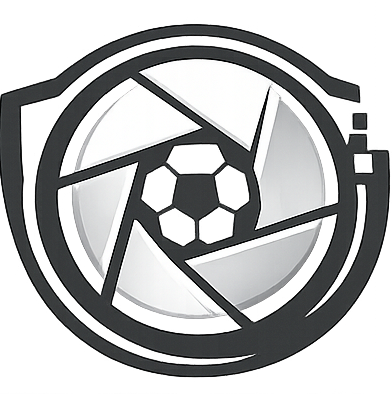
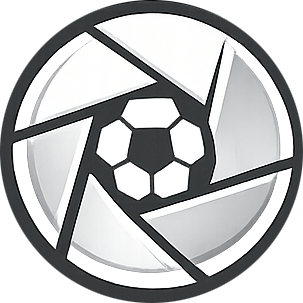
Update README and About component: add links to website and community forum

diff --git a/frontend/src/features/settings/components/About.jsx b/frontend/src/features/settings/components/About.jsx
@@ -120,6 +120,24 @@ export default function About() {
 							<Button
 								variant="outline"
 								className="justify-start"
+								onClick={() => openLink('https://reco-project.org')}
+							>
+								<ExternalLink className="h-4 w-4 mr-2" />
+								Website
+								<ExternalLink className="h-3 w-3 ml-auto" />
+							</Button>
+							<Button
+								variant="outline"
+								className="justify-start"
+								onClick={() => openLink('https://forum.reco-project.org')}
+							>
+								<ExternalLink className="h-4 w-4 mr-2" />
+								Community Forum
+								<ExternalLink className="h-3 w-3 ml-auto" />
+							</Button>
+							<Button
+								variant="outline"
+								className="justify-start"
 								onClick={() => openLink('https://github.com/reco-project/video-stitcher')}
 							>
 								<Github className="h-4 w-4 mr-2" />

diff --git a/frontend/index.html b/frontend/index.html
@@ -2,6 +2,7 @@
 <html>
 	<head>
 		<meta charset="UTF-8" />
+		<link rel="icon" type="image/png" href="/icon.png" />
 		<title>Reco Project</title>
 	</head>
 	<body>

diff --git a/README.md b/README.md
@@ -117,13 +117,14 @@ Licensed under **[AGPL-3.0](LICENSE)** — all derived versions must remain open
 Contributions are welcome! Whether you're a developer, designer, coach, or camera enthusiast:
 
 - 🐛 Report bugs and request features via [GitHub Issues](https://github.com/reco-project/video-stitcher/issues)
-- 💬 Join the discussion in the [Reddit community](https://www.reddit.com/r/VeoCamera/comments/1nr0ic7/how_would_you_design_your_veo/)
+- 💬 Join the discussion on the [Reco Project Forum](https://forum.reco-project.org)
 - 🔧 Submit pull requests for improvements
 
 ## 📬 Contact
 
+- **Website:** [reco-project.org](https://reco-project.org)
+- **Forum:** [forum.reco-project.org](https://forum.reco-project.org)
 - **Email:** mohamedtahaguelzim@gmail.com
-- **Reddit:** [r/VeoCamera discussion](https://www.reddit.com/r/VeoCamera/comments/1nr0ic7/how_would_you_design_your_veo/)
 - **GitHub:** [reco-project/video-stitcher](https://github.com/reco-project/video-stitcher)
 
 ---
